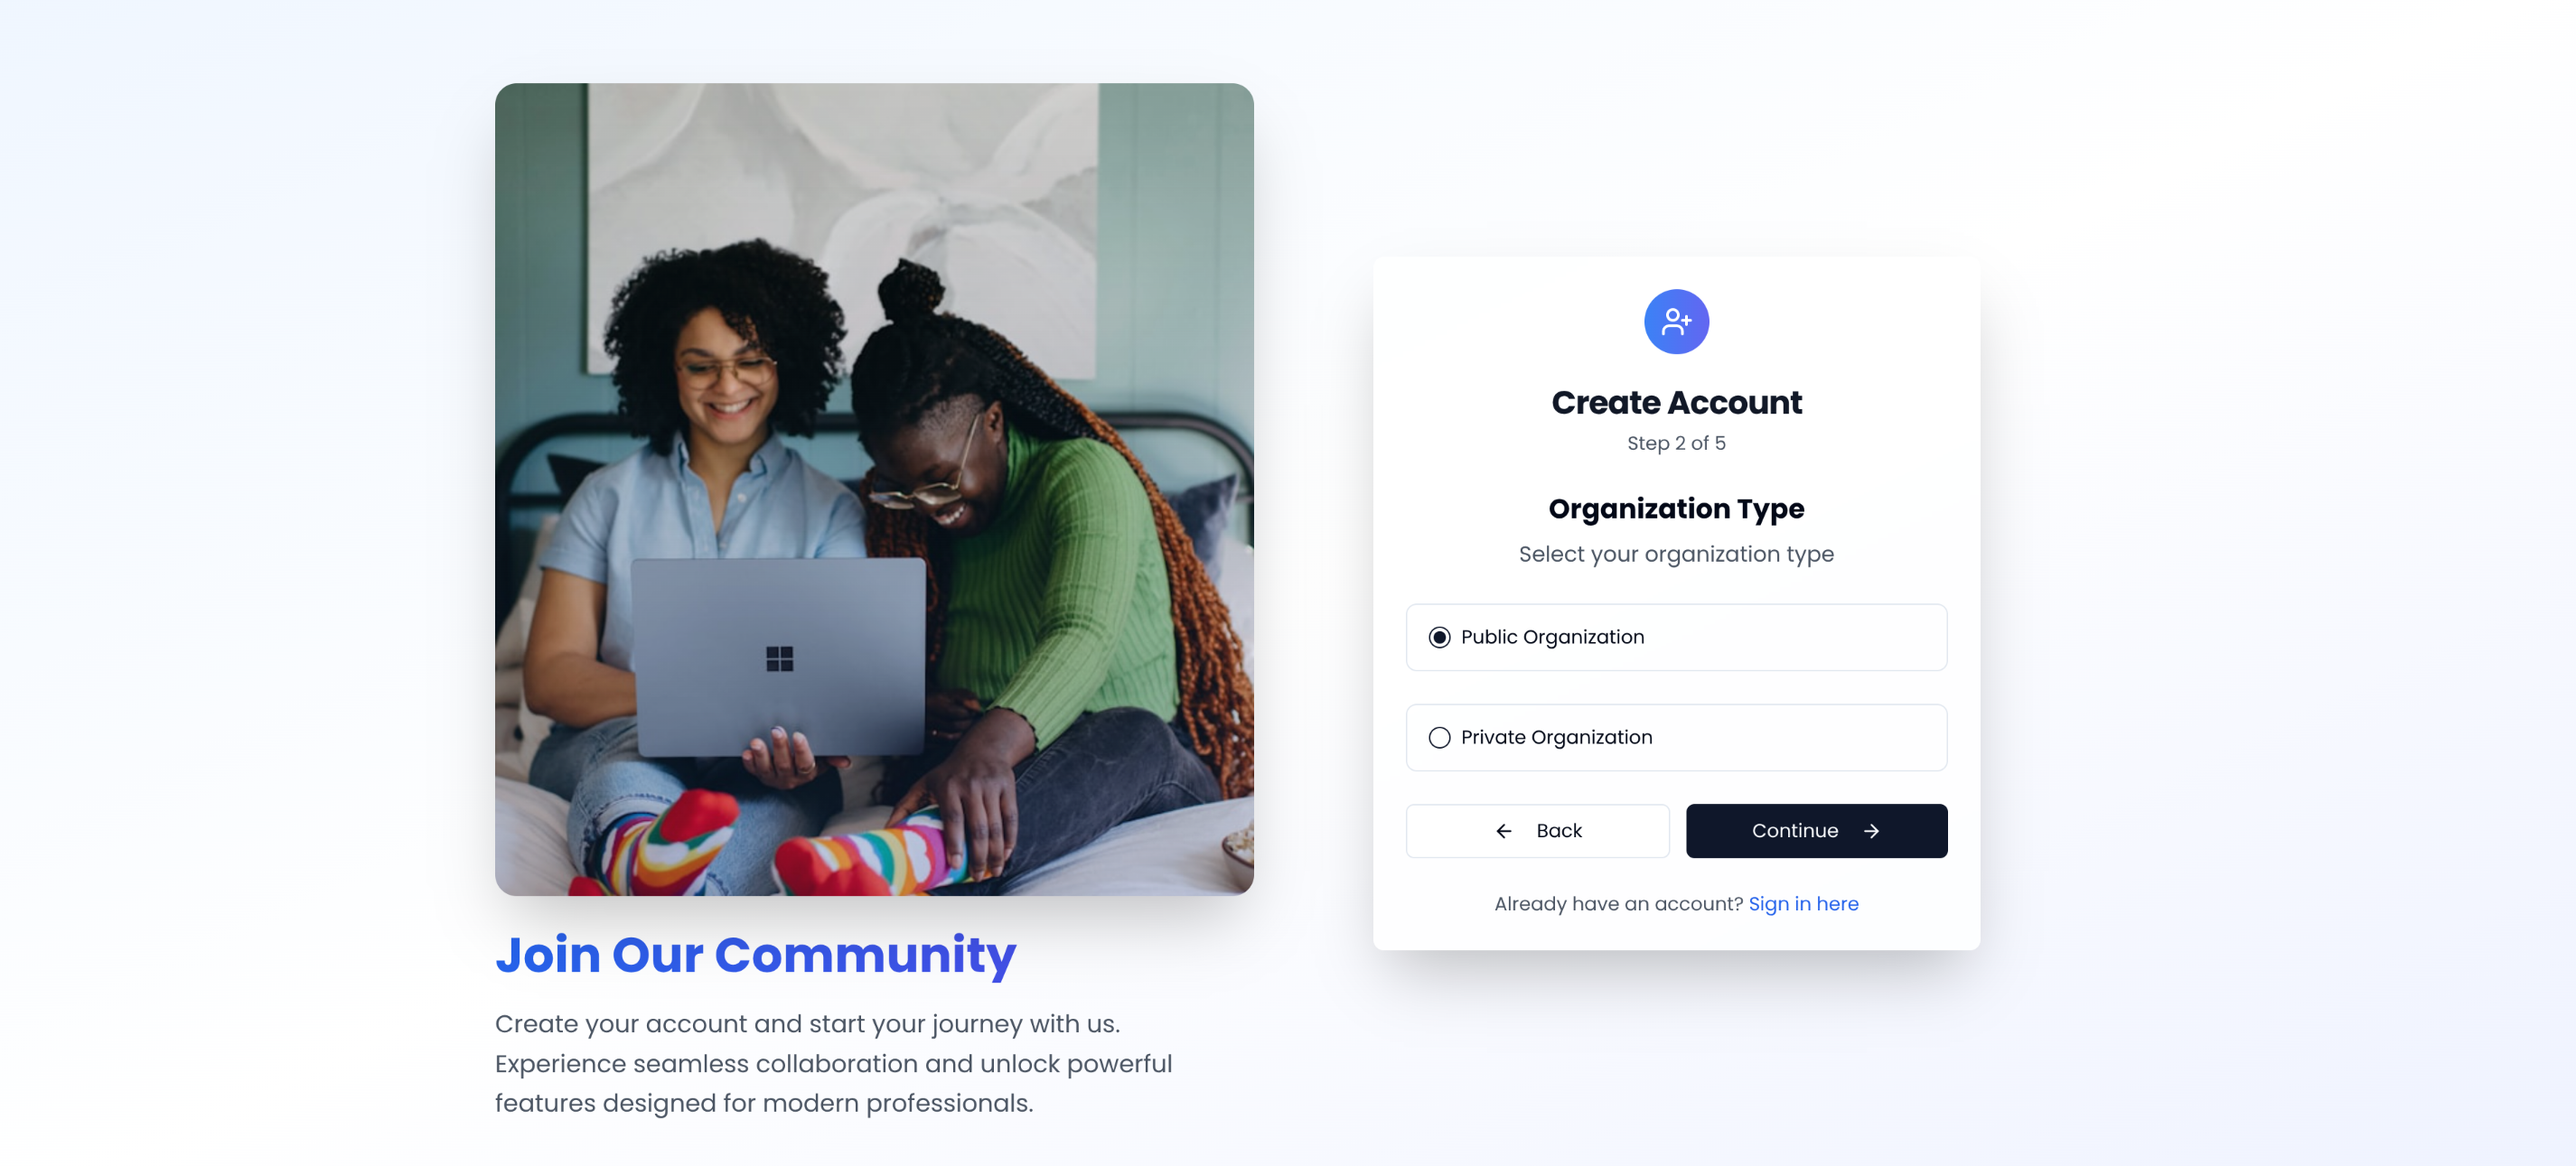
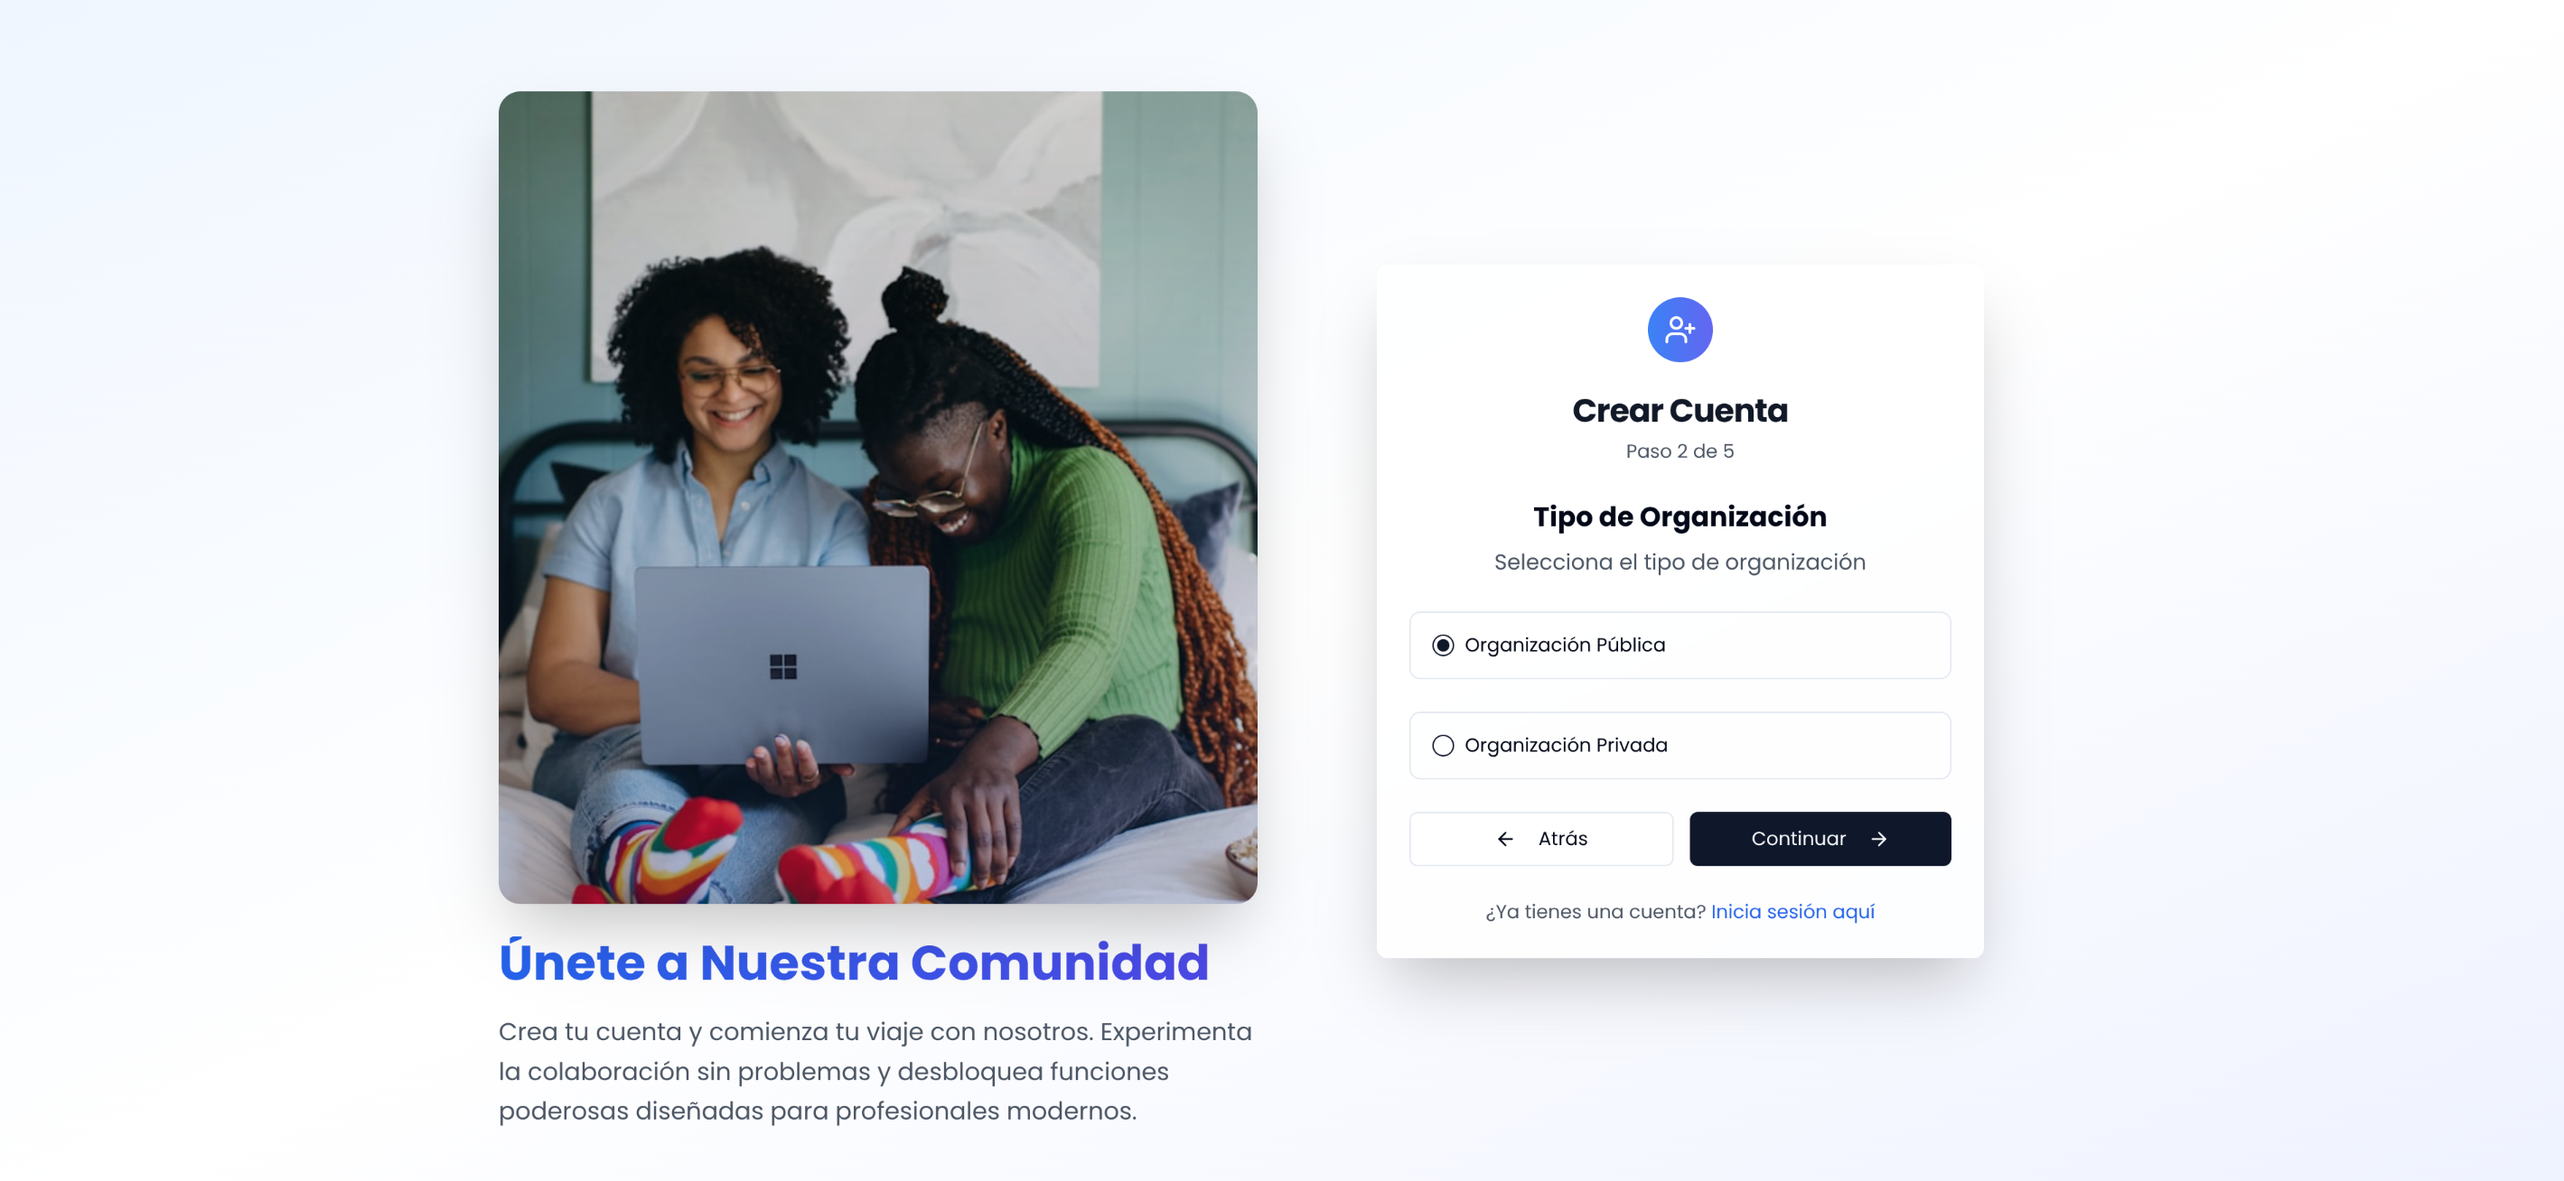
se modifico idioma del prototipo

diff --git a/img/README.md b/img/README.md
@@ -246,7 +246,7 @@ Requerimientos:
 
 Se desarrolló un prototipo funcional de la página del Bioregistro Verde con el objetivo principal de probar el comportamiento de los formularios dinámicos. Este prototipo no incluye procesos de prueba de vida ni captura de datos biométricos, y tampoco recolecta la información final que se almacenará en el sistema definitivo. Su propósito es demostrar, a alto nivel, cómo el formulario se adapta dinámicamente según las selecciones del usuario.
 
-A continuación las imágenes del flujo de recolección de data de una persona física (cabe aclarar que el prototipo está en ingles, pero el producto será en español):
+A continuación las imágenes del flujo de recolección de data de una persona física:
 
 ![alt text](img/userReg.png)
 
@@ -263,6 +263,7 @@ Además, se adjunta el proceso de registar compañía pública:
 ![alt text](img/orgPub-6.png)
 ![alt text](img/orgPub-7.png)
 ![alt text](img/orgPub-8.png)
+![alt text](img/orgPub-9.png)
 
 
 Si deseá probar el prototipo visite el siguiente [link](https://gentle-signup-wizard.lovable.app/).
